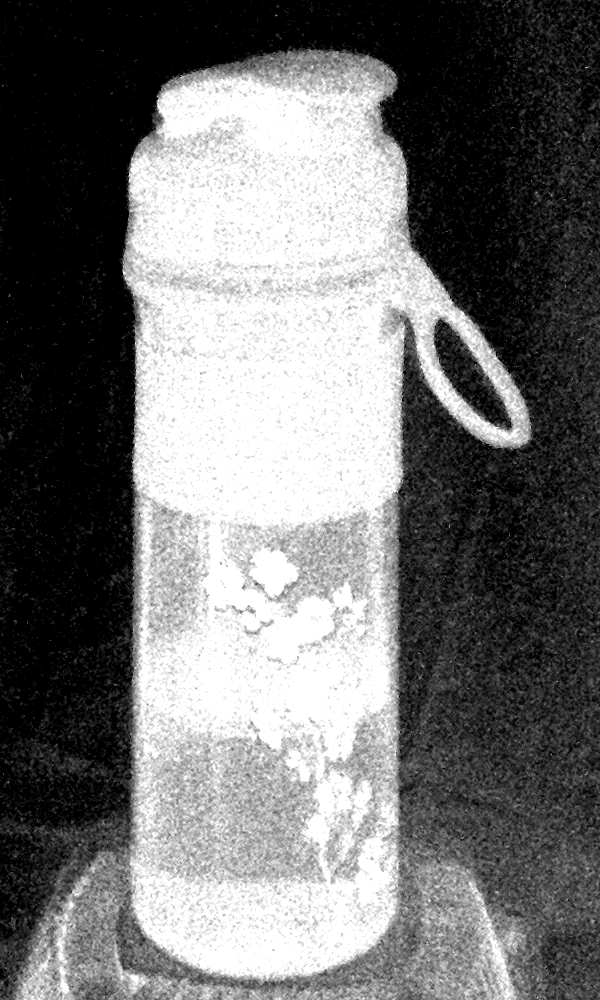
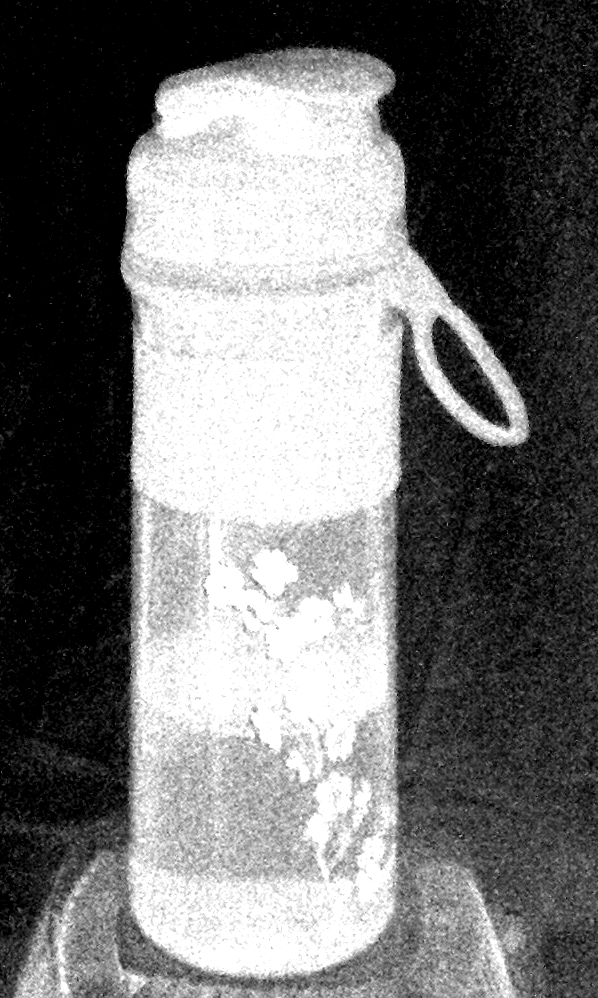
align images by minimizing normalized cross-correlation on hub axis

diff --git a/transparency.py b/transparency.py
@@ -4,6 +4,63 @@ from scipy.misc import imread, imsave
 im1 = imread("in1.png").astype(float) / 255
 im2 = imread("in2.png").astype(float) / 255
 
+# Align images
+
+def convolve(fixed, moving, overhang):
+    fixedShape = np.asarray(fixed.shape)
+    movingShape = np.asarray(moving.shape)
+    overhang = np.asarray(overhang)
+
+    wrappedShape = tuple(fixedShape + overhang)
+
+    resultShape = tuple(fixedShape - movingShape + 1 + 2 * overhang)
+
+    wrapped = np.fft.irfft2(np.fft.rfft2(fixed[:, :],
+                                         s = wrappedShape) \
+                            * np.fft.rfft2(moving[::-1, ::-1],
+                                           s = wrappedShape),
+                            s = wrappedShape)
+    result = wrapped[-resultShape[0]:, -resultShape[1]:]
+
+    return result
+
+estimatedHubAxis = np.mean(im2, axis = (0, 1)) - np.mean(im1, axis = (0, 1))
+
+hubIm1 = np.dot(im1, estimatedHubAxis)
+hubIm1 -= np.mean(hubIm1)
+
+hubIm2 = np.dot(im2, estimatedHubAxis)
+hubIm2 -= np.mean(hubIm2)
+
+smallShape = np.minimum(im1.shape[:2], im2.shape[:2])
+overhang = im2.shape[:2] - (smallShape + 1) // 2
+alignmentScores = convolve(hubIm1, hubIm2, overhang)
+alignmentScores /= np.sqrt(convolve(np.square(hubIm1), np.square(hubIm2),
+                                    overhang))
+del hubIm1
+del hubIm2
+
+alignment = np.unravel_index(np.argmin(alignmentScores),
+                             alignmentScores.shape) - overhang
+print "Alignment:", alignment
+
+alignmentScores -= np.min(alignmentScores)
+alignmentScores *= 255 / np.max(alignmentScores)
+np.round(alignmentScores, out = alignmentScores)
+np.clip(alignmentScores, 0, 255, out = alignmentScores)
+imsave("alignmentScores.png", alignmentScores.astype(np.uint8))
+del alignmentScores
+
+im1Start = np.maximum(alignment, 0)
+im1Stop = np.minimum(alignment + im2.shape[:2], im1.shape[:2])
+alignedIm1 = im1[im1Start[0]:im1Stop[0], im1Start[1]:im1Stop[1]]
+del im1
+
+im2Start = im1Start - alignment
+im2Stop = im1Stop - alignment
+alignedIm2 = im2[im2Start[0]:im2Stop[0], im2Start[1]:im2Stop[1]]
+del im2
+
 # Calculate hub axis
 
 def getHubAxis(im1, im2):
@@ -23,19 +80,19 @@ def getFlatError(im1, im2, hubAxis):
     flatError = xTx - np.dot(hubAxis, np.dot(xxT, hubAxis))
     return flatError
 
-hubAxis = getHubAxis(im1, im2)
+hubAxis = getHubAxis(alignedIm1, alignedIm2)
 print "Hub Axis:", hubAxis
 
-flatError = getFlatError(im1, im2, hubAxis)
+flatError = getFlatError(alignedIm1, alignedIm2, hubAxis)
 print "Flat Error:", flatError
 
 # Calculate hub center and cutoff values
 
-imMean = im1 + im2
+imMean = alignedIm1 + alignedIm2
 imMean *= 0.5
-bgDiff = np.dot(im2 - im1, hubAxis)
+bgDiff = np.dot(alignedIm2 - alignedIm1, hubAxis)
 bgDiff -= np.mean(bgDiff)
-del im1, im2
+del alignedIm1, alignedIm2
 
 def getStairwayError(aSorted):
     stairways = np.cumsum(aSorted)
